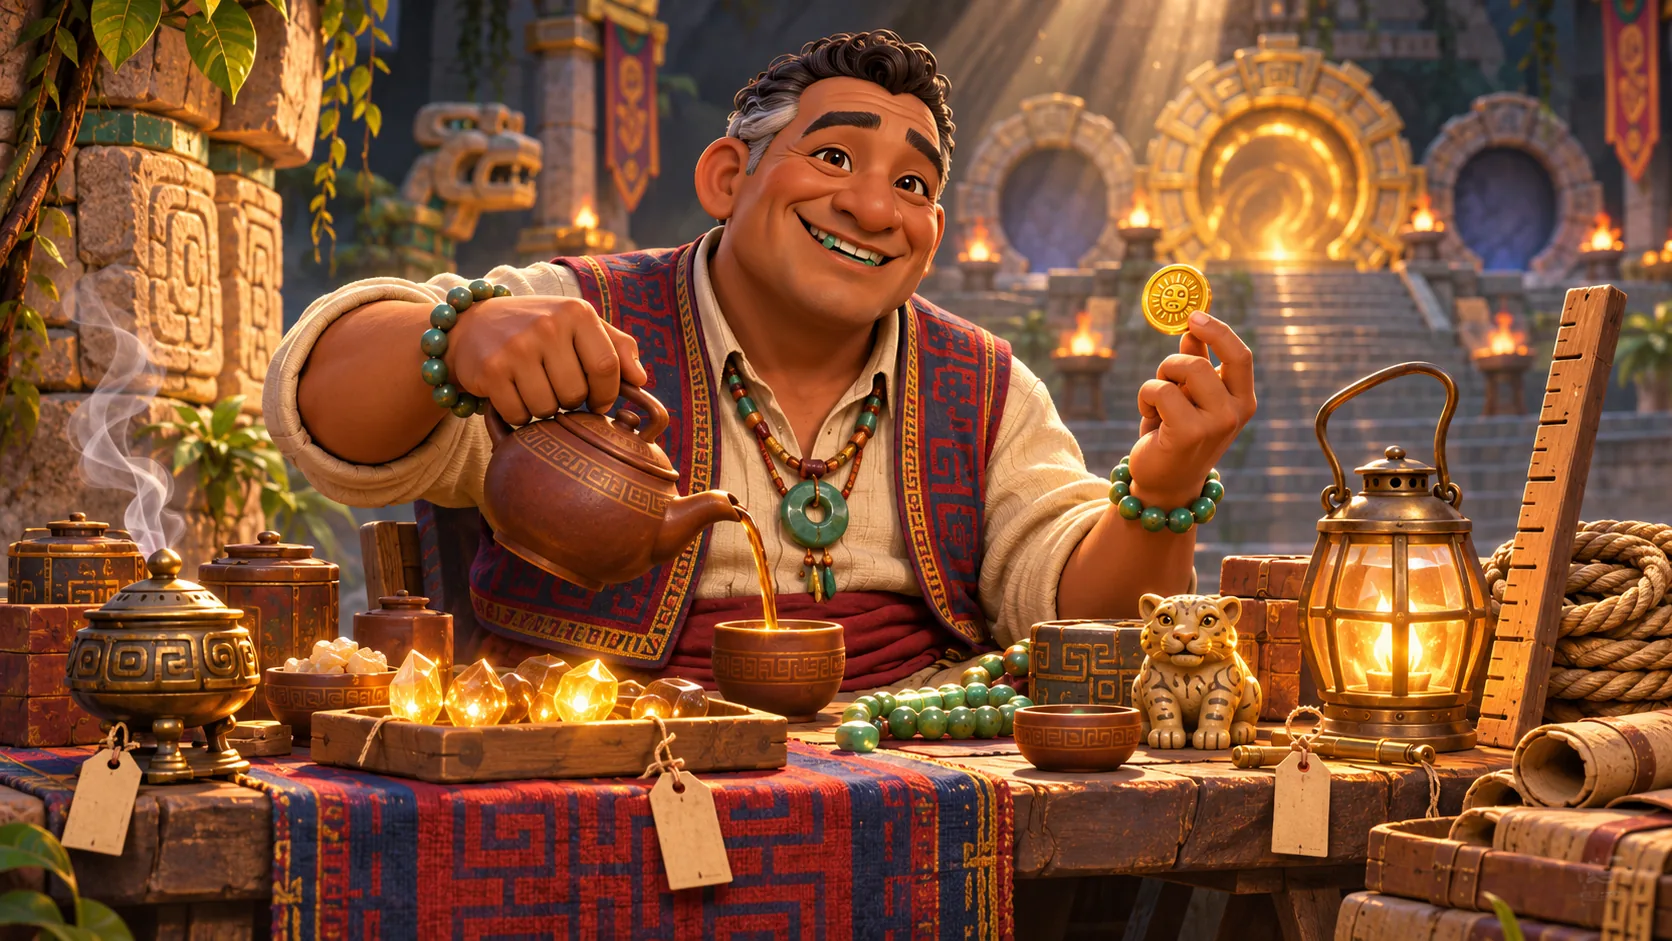
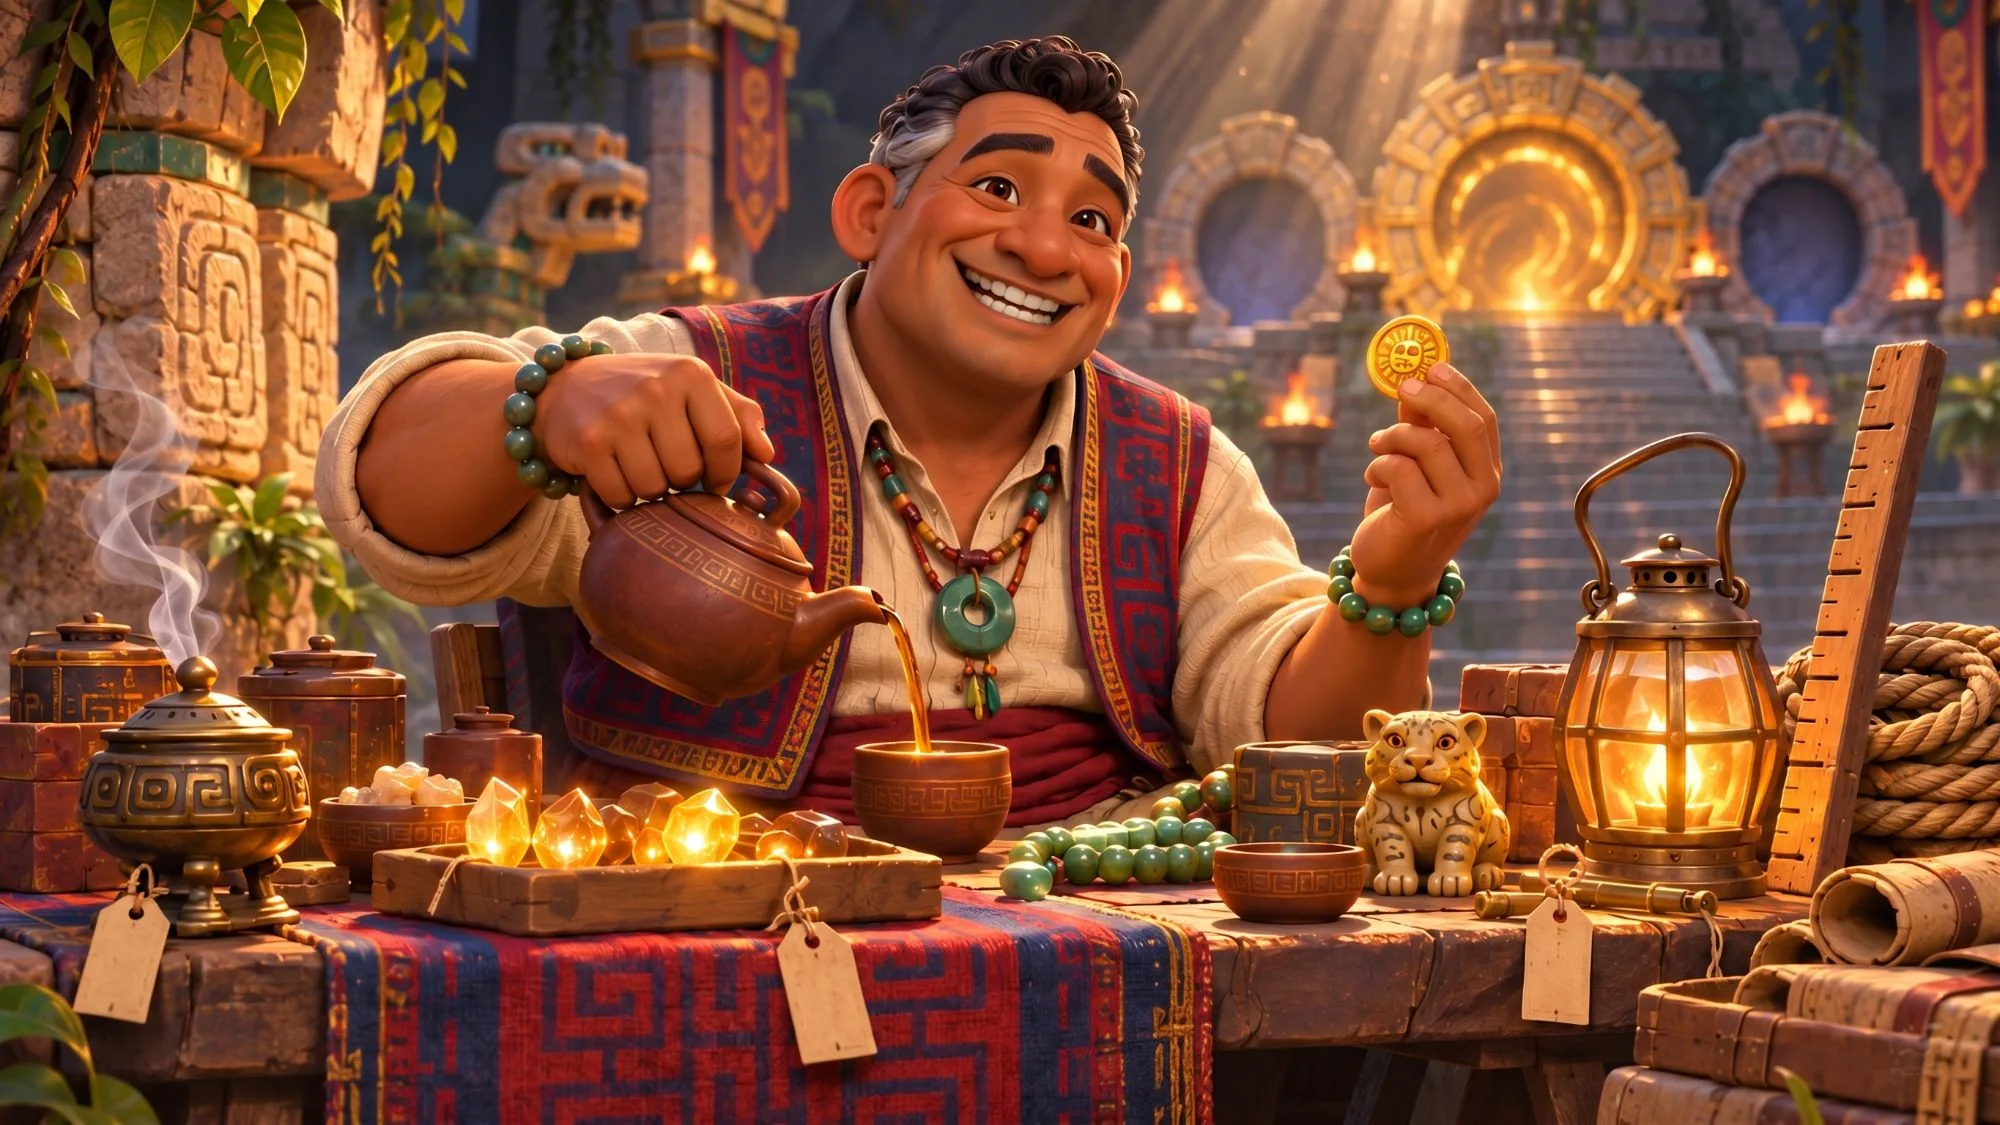
Replace the Oxlahun key art with the corrected image

diff --git a/de/characters/oxlahun.html b/de/characters/oxlahun.html
@@ -35,7 +35,7 @@
 <main id="main">
 
 <section class="page-head page-head-art">
-  <div class="page-head-frame"><img src="../../assets/img/full/HOME-OXLAHUN.webp" alt="" width="1672" height="941" fetchpriority="high"></div>
+  <div class="page-head-frame"><img src="../../assets/img/full/HOME-OXLAHUN.webp" alt="" width="2000" height="1125" fetchpriority="high"></div>
   <div class="wrap page-head-text"><p class="crumbs"><a href="../../de/index.html">Start</a> / Figuren</p><p class="kicker">Der Händler</p><h1>Oxlahun</h1><p class="lede">Das freundlichste Gesicht in der Schwelle und ihre leiseste Bedrohung. „Dreizehn“ genannt, nach der Zahl der Tode, die er gestorben sein will.</p></div>
 </section>
 

diff --git a/characters/oxlahun.html b/characters/oxlahun.html
@@ -35,7 +35,7 @@
 <main id="main">
 
 <section class="page-head page-head-art">
-  <div class="page-head-frame"><img src="../assets/img/full/HOME-OXLAHUN.webp" alt="" width="1672" height="941" fetchpriority="high"></div>
+  <div class="page-head-frame"><img src="../assets/img/full/HOME-OXLAHUN.webp" alt="" width="2000" height="1125" fetchpriority="high"></div>
   <div class="wrap page-head-text"><p class="crumbs"><a href="../index.html">Home</a> / Characters</p><p class="kicker">The trader</p><h1>Oxlahun</h1><p class="lede">The friendliest face in the Threshold, and its quietest threat. Called “Thirteen”, for the number of times he says he has died.</p></div>
 </section>
 
